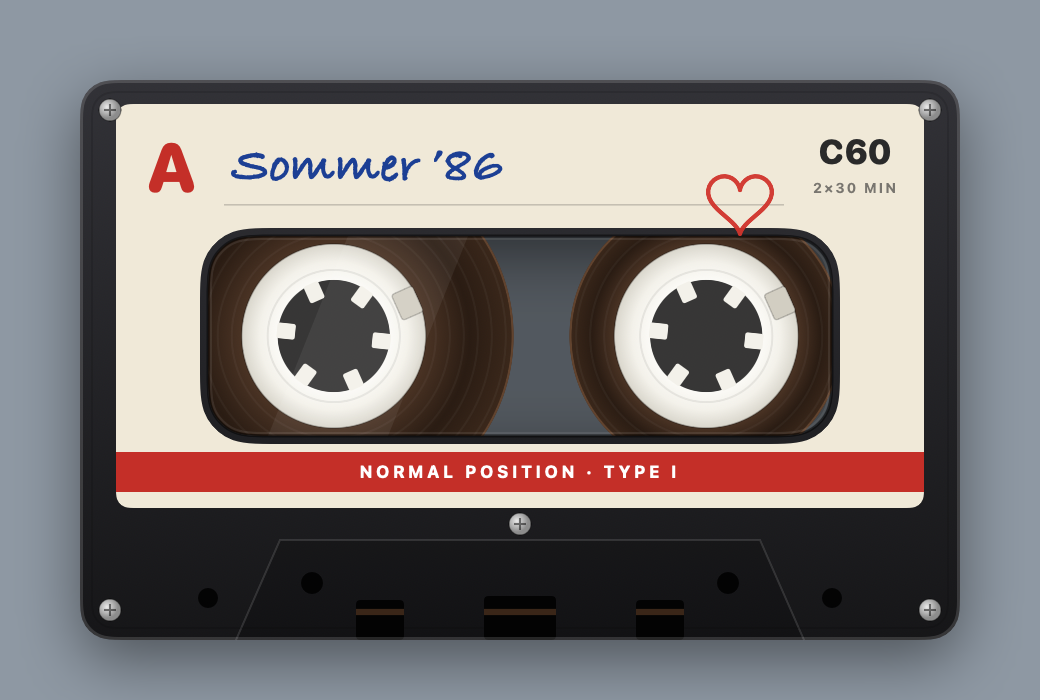
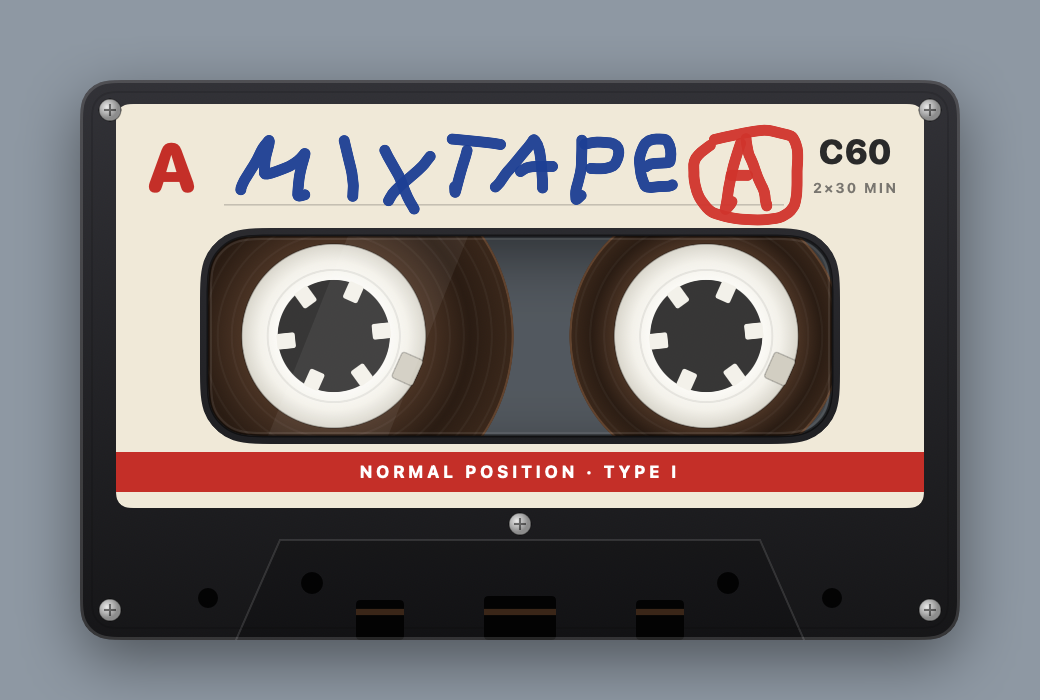
Hand-labelled screenshots from real tapes
Snapshots can now render a .mixtape file (--file). The empty-label hint
no longer shows through a hand-drawn label.

diff --git a/Sources/App.swift b/Sources/App.swift
@@ -330,10 +330,20 @@ enum Tools {
             return args[i + 1]
         }
         if let out = value("--snapshot") {
-            let deck = demoDeck(design: value("--design") ?? "ferro",
-                                fraction: Double(value("--pos") ?? "") ?? 0.3,
-                                side: value("--side") == "b" ? .b : .a,
+            let fraction = Double(value("--pos") ?? "") ?? 0.3
+            let side: Side = value("--side") == "b" ? .b : .a
+            let deck: Deck
+            if let path = value("--file") {
+                // A real tape, label and drawings as the user made them; it is only read, never saved.
+                let doc = try! TapeDocument(url: URL(fileURLWithPath: path))
+                doc.fileURL = nil
+                doc.data.sideUp = side
+                deck = Deck(doc: doc, snapshotMode: true)
+                deck.scrub(toFraction: fraction)
+            } else {
+                deck = demoDeck(design: value("--design") ?? "ferro", fraction: fraction, side: side,
                                 drawing: args.contains("--draw"))
+            }
             deck.showPanel = !args.contains("--nopanel")
             if args.contains("--meter") {
                 deck.meterOpen = true

diff --git a/Sources/Deck.swift b/Sources/Deck.swift
@@ -127,7 +127,8 @@ final class Deck: NSObject, ObservableObject {
                           total: length, leader: TapeLength.leaderSeconds,
                           leftAmount: length - elapsed, rightAmount: elapsed,
                           leftAngle: leftAngle, rightAngle: rightAngle,
-                          hideTitle: editingLabel, hint: showPanel && title.isEmpty && !drawMode,
+                          hideTitle: editingLabel,
+                          hint: showPanel && title.isEmpty && !drawMode && doc.drawing(side).isEmpty,
                           strokes: doc.drawing(side) + (liveStroke.map { [$0] } ?? []))
     }
 

diff --git a/Distribution/itch/page.md b/Distribution/itch/page.md
@@ -1,0 +1,46 @@
+# itch.io page for Mixtape App
+
+Title: Mixtape App
+Project URL: mixtape-app
+Short description: The perfect simulation of an audio cassette for your Mac – just like in 1986.
+Classification: Tools
+Kind of project: Downloadable
+Pricing: No payments required (pay what you want), suggested donation 3.00 EUR
+Release status: Released
+Upload: Mixtape.dmg, marked as macOS
+Tags: cassette, mixtape, retro, 80s, music, audio, recording, macos
+Cover image: cover.png (630 × 500)
+Screenshots: screenshot-cassette.png, screenshot-deck.png, screenshot-chrome.png
+Source code link: https://github.com/aeiou11235/mixtape
+
+## Description
+
+**The perfect simulation of an audio cassette for your Mac – just like in 1986.**
+
+Recording is fiddly. You have to handle everything just right, or something goes wrong. But you make the effort, because it's all for that one special friend. You record the perfect tape and pass it on.
+
+A cassette on your Mac desktop. Tape what your Mac is playing, flip it over, scribble on the label – and send it to a friend, who can record over it and send it back.
+
+Mixtape App is as personal as it gets. *Vibe-coded with love.*
+
+### What it does
+
+- **Just a cassette.** No window, no Dock icon – only the tape floats on your desktop. Hover over it and the deck appears.
+- **Records what your Mac plays** – Spotify, YouTube, anything – or the microphone.
+- **Like real tape:** recording overwrites what was there, each side holds half the running time (C46, C60, C90), and you flip the cassette for side B.
+- **Four tape types:** Ferro, Chrome, Metal and Clear.
+- **Hand-written label and drawings** right on the cassette.
+- **VU meters and a REC LEVEL fader** that saturates like analog tape when you push it into the red.
+- **Tape sound** – hiss, wow & flutter, spool noise, key clunks, pause squeal – each can be switched off.
+- **Send it:** a tape is a single .mixtape file. Attach it to an email; your friend double-clicks it and the cassette appears.
+
+### Install
+
+1. Download Mixtape.dmg, open it and drag Mixtape onto Applications.
+2. Mixtape isn't signed by Apple yet, so macOS blocks it the first time. Double-click Mixtape, click **Done**, then open **System Settings → Privacy & Security**, scroll down and click **Open Anyway**. Only needed once.
+3. The first time you record, allow Mixtape to record system audio or the microphone.
+
+The guide "Read me first" inside the disk image explains each step.
+
+Requires macOS 14.4 or later, Apple silicon or Intel.
+Source code: https://github.com/aeiou11235/mixtape

diff --git a/README.md b/README.md
@@ -1,4 +1,4 @@
-<p align="center"><img src="docs/cassette.png" width="520" alt="Mixtape cassette"></p>
+<p align="center"><img src="docs/cassette.png" width="520" alt="A ferro tape labelled MIXTAPE by hand"></p>
 
 <h1 align="center">Mixtape App</h1>
 
@@ -30,7 +30,7 @@ Mixtape App is as personal as it gets. *Vibe-coded with love.*
 
 <p align="center"><img src="docs/deck.png" width="520" alt="Mixtape with the deck and VU meters open"></p>
 
-<p align="center"><img src="docs/chrome.png" width="440" alt="A chrome tape, side B"></p>
+<p align="center"><img src="docs/chrome.png" width="440" alt="A chrome tape labelled OCT 30, 2026"> <img src="docs/clear.png" width="440" alt="A clear tape, side B, labelled MIXTAPE 2B"></p>
 
 ## Install
 
